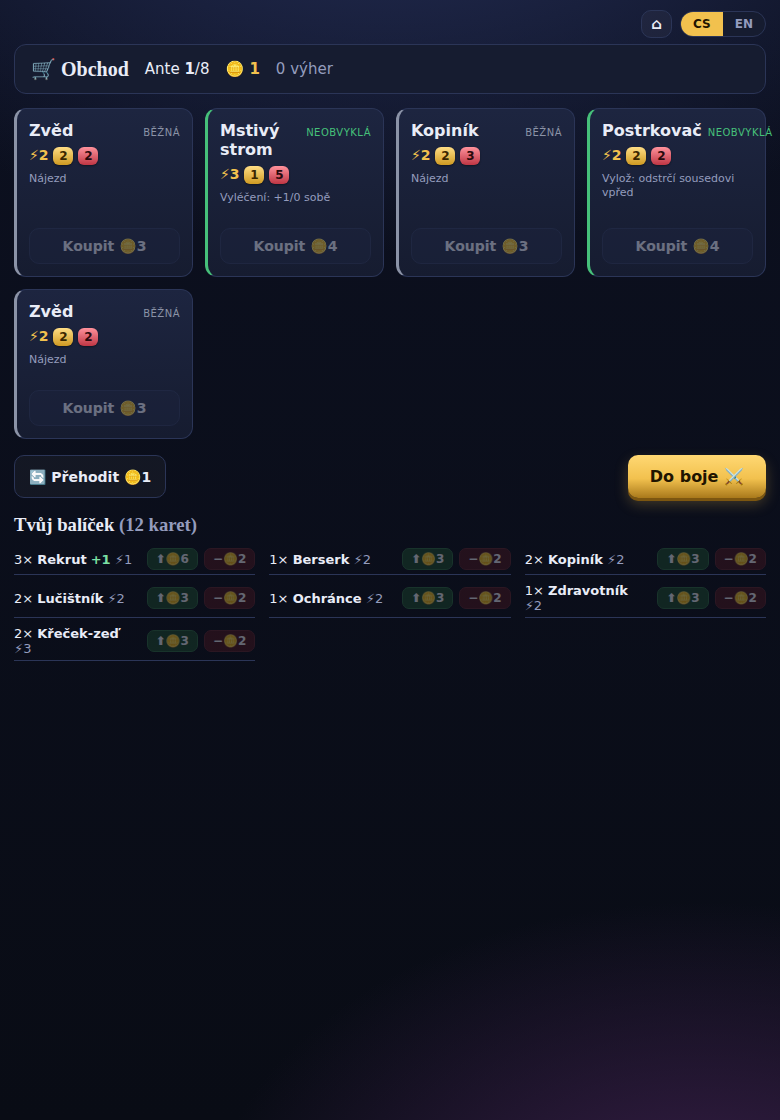
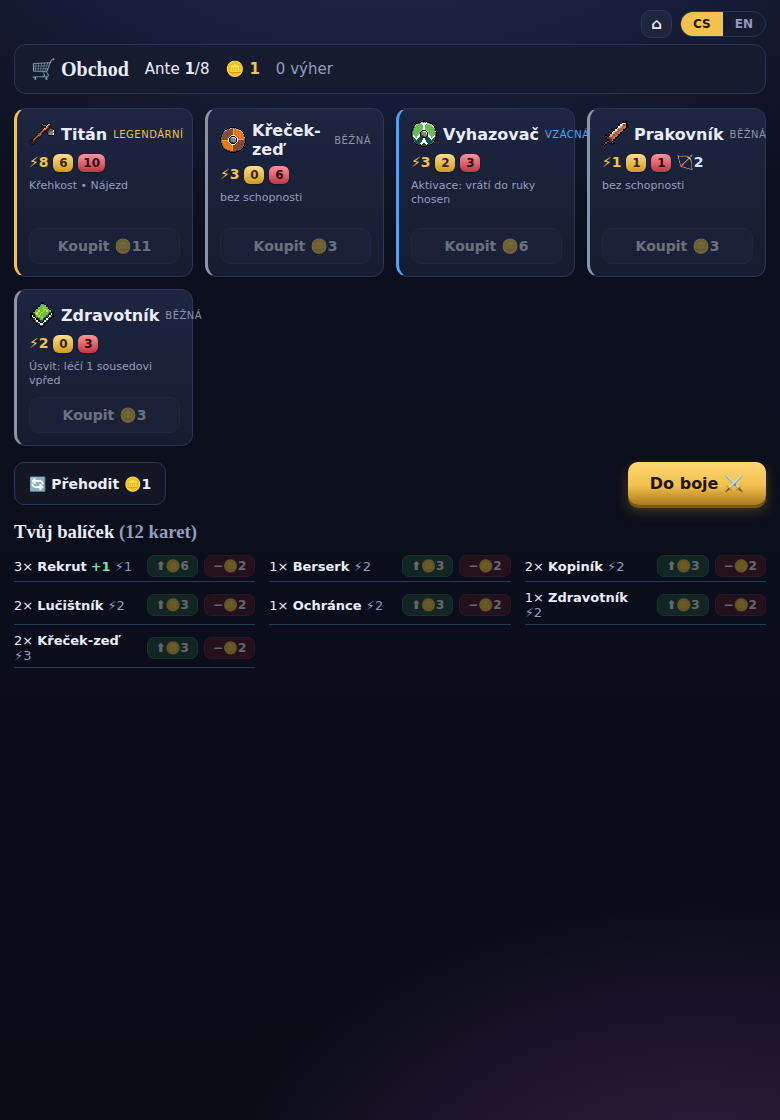
feat: sladit ruku a obchod do pixel rámečků + pixel-art ikony karet
- Emoji artwork nahrazeno pixel-art ikonami ze sheetu (meče, luky, sekery,
  lektvary, hůlky, štíty…) nařezanými za běhu; mapování karta→ikona v sprites.ts
- Karty v ruce mají teď stejný obloukový pixel rámeček jako na desce
  (art v okně, cena rohový odznak, HP/max v panelu, jméno jako popisek pod kartou)
- Obchod: ikona karty u názvu
- Královna má korunu, Velitel medaili
- Ověřeno v prohlížeči (uicheck aktualizován na .hslot), build ~149 kB

Claude-Session: https://claude.ai/code/session_01BAbEvVGZgQG9PMoEsfgnJW

diff --git a/src/ui/sprites.ts b/src/ui/sprites.ts
@@ -1,47 +1,92 @@
 import framesUrl from '../../assets/Modular_Fantasy_Cards_Spritesheet.png';
+import iconsUrl from '../../assets/pixelCardAssest_V01.png';
 import type { PlayerId } from '../engine/index.ts';
 
-// Nařezání spritesheetu na jednotlivé PNG (data URI) za běhu přes canvas.
-// Díky tomu jde sprite roztáhnout responzivně (background-size:100% 100%)
-// a zůstane ostrý (image-rendering: pixelated).
+// Nařezání spritesheetů na jednotlivé PNG (data URI) za běhu přes canvas.
+// Sprite jde pak roztáhnout responzivně a zůstane ostrý (image-rendering: pixelated).
 
 const FW = 68;
 const FH = 95;
 
-// souřadnice obloukových rámečků ve sheetu (změřeno analyzátorem)
-const FRAME_SRC: Record<string, { x: number; y: number }> = {
-  blue: { x: 4, y: 4 },
-  red: { x: 156, y: 4 },
-  gold: { x: 308, y: 210 },
-  green: { x: 308, y: 4 },
+// obloukové rámečky karet (Modular sheet) — [x,y]
+const FRAME_SRC: Record<string, [number, number]> = {
+  blue: [4, 4],
+  red: [156, 4],
+  gold: [308, 210],
+};
+
+// ikony (pixelCardAssest) — [x,y,w,h]
+const ICON_SRC: Record<string, [number, number, number, number]> = {
+  swordSteel: [544, 272, 16, 16],
+  swordWood: [523, 271, 16, 16],
+  spear: [506, 266, 12, 25],
+  axe: [469, 308, 27, 21],
+  hammer: [438, 306, 22, 19],
+  bow: [604, 307, 28, 27],
+  wandRed: [509, 310, 17, 17],
+  wandGreen: [536, 314, 17, 17],
+  heart: [429, 148, 13, 12],
+  potionR: [463, 202, 15, 16],
+  potionG: [496, 202, 15, 16],
+  potionY: [529, 202, 15, 16],
+  star: [399, 218, 20, 20],
+  coin: [401, 184, 19, 18],
+  shieldPurple: [568, 142, 26, 26],
+  shieldBronze: [568, 172, 26, 26],
+  shieldGreen: [568, 205, 26, 26],
+  shieldBlue: [568, 237, 26, 26],
+  shieldRed: [568, 266, 26, 26],
+};
+
+// mapování karty → ikona
+const ART_MAP: Record<string, string> = {
+  queen: 'star', recruit: 'swordSteel', spearman: 'spear', archer: 'bow', medic: 'potionG',
+  wall: 'shieldBronze', minelayer: 'axe', reaper: 'axe', protector: 'shieldBlue', berserk: 'axe',
+  courier: 'coin', vengetree: 'potionG', runeshield: 'shieldPurple', avenger: 'swordSteel',
+  timebomb: 'wandRed', cannon: 'hammer', pyro: 'wandRed', commander: 'shieldBronze', banner: 'shieldGreen',
+  zealot: 'swordWood', healer: 'potionR', zapper: 'wandGreen', slinger: 'swordWood', squire: 'shieldBronze',
+  brute: 'hammer', scout: 'bow', shover: 'shieldBlue', sapper: 'axe', cleric: 'potionR', hexer: 'wandRed',
+  sniper: 'bow', bouncer: 'shieldGreen', silencer: 'wandGreen', summoner: 'wandGreen', warlord: 'swordSteel',
+  plague: 'potionY', archmage: 'shieldPurple', titan: 'hammer',
 };
 
 const frames: Record<string, string> = {};
+const icons: Record<string, string> = {};
 
-export function initSprites(): Promise<void> {
+function load(src: string): Promise<HTMLImageElement | null> {
   return new Promise((resolve) => {
     const img = new Image();
-    img.onload = () => {
-      for (const [name, s] of Object.entries(FRAME_SRC)) {
-        const cv = document.createElement('canvas');
-        cv.width = FW;
-        cv.height = FH;
-        const ctx = cv.getContext('2d');
-        if (ctx) {
-          ctx.imageSmoothingEnabled = false;
-          ctx.drawImage(img, s.x, s.y, FW, FH, 0, 0, FW, FH);
-          frames[name] = cv.toDataURL();
-        }
-      }
-      resolve();
-    };
-    img.onerror = () => resolve();
-    img.src = framesUrl;
+    img.onload = () => resolve(img);
+    img.onerror = () => resolve(null);
+    img.src = src;
   });
 }
 
-/** Rámeček karty podle vlastníka (Královna dostane zlatý). */
+function slice(img: HTMLImageElement, x: number, y: number, w: number, h: number): string {
+  const cv = document.createElement('canvas');
+  cv.width = w;
+  cv.height = h;
+  const ctx = cv.getContext('2d');
+  if (!ctx) return '';
+  ctx.imageSmoothingEnabled = false;
+  ctx.drawImage(img, x, y, w, h, 0, 0, w, h);
+  return cv.toDataURL();
+}
+
+export async function initSprites(): Promise<void> {
+  const [framesImg, iconsImg] = await Promise.all([load(framesUrl), load(iconsUrl)]);
+  if (framesImg) for (const [name, [x, y]] of Object.entries(FRAME_SRC)) frames[name] = slice(framesImg, x, y, FW, FH);
+  if (iconsImg) for (const [name, [x, y, w, h]] of Object.entries(ICON_SRC)) icons[name] = slice(iconsImg, x, y, w, h);
+}
+
+/** Rámeček karty podle vlastníka (Královna zlatý). */
 export function frameFor(owner: PlayerId, isQueen: boolean): string {
   if (isQueen) return frames['gold'] ?? '';
   return owner === 'A' ? (frames['blue'] ?? '') : (frames['red'] ?? '');
+}
+
+/** Pixel-art ikona pro kartu (data URI), nebo '' když není. */
+export function iconFor(defId: string): string {
+  const key = ART_MAP[defId] ?? 'star';
+  return icons[key] ?? '';
 }

diff --git a/src/style.css b/src/style.css
@@ -161,26 +161,29 @@ button:disabled { opacity: .4; cursor: not-allowed; }
 .bdg.shield { color: #9fd0ff; } .bdg.count { color: #ffd27a; } .bdg.rng { color: #cfe3ff; }
 
 /* ── ruka ── */
-.hand { display: flex; flex-wrap: wrap; gap: 8px; margin-bottom: 12px; min-height: 88px; justify-content: center; }
-.hcard {
-  width: 86px; background: linear-gradient(180deg, var(--panel2), var(--panel));
-  border: 1px solid var(--line); border-bottom: 3px solid var(--rar, #888);
-  border-radius: 10px; padding: 8px 8px 6px; position: relative; cursor: pointer;
-  transition: transform .1s ease, box-shadow .15s ease;
-}
-.hcard:hover { transform: translateY(-5px); box-shadow: 0 8px 18px rgba(0,0,0,.4); }
-.hcard.is-sel { transform: translateY(-6px); box-shadow: 0 0 0 2px var(--gold), 0 8px 20px rgba(242,193,78,.35); }
-.hcard.is-dim { opacity: .42; }
-.hcard__cost {
-  position: absolute; top: -8px; left: -8px; width: 24px; height: 24px; border-radius: 50%;
+.hand { display: flex; flex-wrap: wrap; gap: 10px; margin-bottom: 12px; min-height: 120px; justify-content: center; align-items: flex-end; }
+.hslot { width: 76px; cursor: pointer; transition: transform .1s ease; }
+.hslot:hover { transform: translateY(-5px); }
+.hslot.is-sel { transform: translateY(-7px); }
+.hslot.is-sel .pc { filter: drop-shadow(0 0 3px #fff) drop-shadow(0 0 6px var(--gold)); }
+.hslot.is-dim { opacity: .45; }
+.hframe { width: 100% !important; height: auto !important; aspect-ratio: 68 / 95; }
+.hcost {
+  position: absolute; top: -7px; left: -7px; width: 23px; height: 23px; border-radius: 50%;
   background: radial-gradient(circle at 35% 30%, #fff2c0, var(--gold)); color: #201400;
   display: flex; align-items: center; justify-content: center; font-weight: 900; font-size: 13px;
-  box-shadow: 0 2px 6px rgba(0,0,0,.4);
+  box-shadow: 0 2px 6px rgba(0,0,0,.45); z-index: 3;
 }
-.hcard__name { font-weight: 700; font-size: 12px; margin: 2px 0 2px; }
-.hcard__art { font-size: 24px; text-align: center; margin: 2px 0 4px; filter: drop-shadow(0 1px 2px rgba(0,0,0,.5)); }
-.hcard__foot { display: flex; gap: 6px; font-size: 12px; font-weight: 800; }
+.hrng { position: absolute; top: -6px; right: -4px; font-size: 11px; background: rgba(0,0,0,.6); border-radius: 6px; padding: 0 3px; z-index: 3; }
+.hcaption { text-align: center; font-size: 11px; margin-top: 3px; font-weight: 600; color: var(--ink); white-space: nowrap; overflow: hidden; text-overflow: ellipsis; }
 .empty { color: var(--muted); padding: 24px; }
+
+/* pixel-art sprite ikony */
+.spr { display: inline-block; width: 30px; height: 30px; background-repeat: no-repeat; background-position: center; background-size: contain; image-rendering: pixelated; }
+.hframe .spr { width: 24px; height: 24px; }
+.shopicon { width: 26px; height: 26px; flex: 0 0 auto; }
+.artemoji { font-size: 26px; line-height: 1; filter: drop-shadow(0 1px 1px rgba(0,0,0,.5)); }
+.hframe .artemoji { font-size: 20px; }
 
 /* ── ovládání ── */
 .actionbar { display: flex; gap: 10px; align-items: center; flex-wrap: wrap; background: rgba(255,255,255,.04); border: 1px solid var(--line); border-radius: 10px; padding: 8px 12px; margin-bottom: 10px; }
@@ -211,8 +214,8 @@ button:disabled { opacity: .4; cursor: not-allowed; }
   border-radius: 12px; padding: 12px; display: flex; flex-direction: column; gap: 7px;
 }
 .shopcard.sold { opacity: .4; }
-.shopcard__head { display: flex; justify-content: space-between; align-items: baseline; gap: 6px; }
-.shopcard__name { font-weight: 700; }
+.shopcard__head { display: flex; align-items: center; gap: 6px; }
+.shopcard__name { font-weight: 700; flex: 1; }
 .shopcard__rar { font-size: 10px; text-transform: uppercase; letter-spacing: .5px; }
 .shopcard__stats { font-size: 14px; font-weight: 700; }
 .shopcard__stats .cost { color: var(--gold); }

diff --git a/src/main.ts b/src/main.ts
@@ -4,7 +4,7 @@ import { GameEngine, key } from './engine/index.ts';
 import { stepBot } from './ai/bot.ts';
 import { LIBRARY } from './content/cards.ts';
 import { describeCard, describeDef, describeAbility } from './ui/describe.ts';
-import { initSprites, frameFor } from './ui/sprites.ts';
+import { initSprites, frameFor, iconFor } from './ui/sprites.ts';
 import { t, cardName, formatLog, getLang, setLang, type Lang } from './i18n/index.ts';
 import {
   createRun, makeBattleConfig, startBattle, onBattleWin, onBattleLoss,
@@ -37,7 +37,13 @@ const CARD_ART: Record<string, string> = {
   sniper: '🎯', bouncer: '🚪', silencer: '🤫', summoner: '🌀', warlord: '🎗', plague: '🐦⬛',
   archmage: '🧙', titan: '🗿',
 };
-const cardArt = (defId: string) => CARD_ART[defId] ?? '❔';
+// pixel-art ikona ze sheetu; Královna má korunu, jinak fallback na emoji
+function cardArt(defId: string): string {
+  if (defId === 'queen') return '<span class="artemoji">👑</span>';
+  const uri = iconFor(defId);
+  if (uri) return `<span class="spr" style="background-image:url(${uri})"></span>`;
+  return `<span class="artemoji">${CARD_ART[defId] ?? '❔'}</span>`;
+}
 
 // vrstva pro efekty (plovoucí čísla, záblesky) — přežívá překreslení #app
 const fx = document.createElement('div');
@@ -211,14 +217,19 @@ function renderBoard(b: BattleState): string {
 }
 function renderHand(b: BattleState): string {
   const p = b.engine.state.players[HUMAN];
+  const frame = frameFor(HUMAN, false);
+  const bg = frame ? `style="background-image:url(${frame})"` : '';
   const chips = b.engine.handOf(HUMAN).map((c) => {
     const sel = b.selection?.type === 'hand' && b.selection.uid === c.uid ? 'is-sel' : '';
     const aff = c.cost <= p.energy ? '' : 'is-dim';
-    return `<div class="hcard r-${rarityOf(c.defId)} ${sel} ${aff}" data-hand="${c.uid}" title="${escapeAttr(describeCard(c) || cardName(c.defId))}">
-        <span class="hcard__cost">${c.cost}</span>
-        <div class="hcard__name">${escapeHtml(cardName(c.defId))}</div>
-        <div class="hcard__art">${cardArt(c.defId)}</div>
-        <div class="hcard__foot"><span class="atk">${c.attack}</span><span class="hp">${c.hp}/${c.maxHp}</span>${c.range > 1 ? `<span class="rng">🏹${c.range}</span>` : ''}</div>
+    const rng = c.range > 1 ? `<span class="hrng">🏹${c.range}</span>` : '';
+    return `<div class="hslot ${sel} ${aff}" data-hand="${c.uid}" title="${escapeAttr(describeCard(c) || cardName(c.defId))}">
+        <div class="pc pc--a hframe r-${rarityOf(c.defId)}" ${bg}>
+          <span class="hcost">${c.cost}</span>${rng}
+          <div class="pc__art">${cardArt(c.defId)}</div>
+          <div class="pc__foot"><span class="atk">${c.attack}</span><span class="hp">${c.hp}/${c.maxHp}</span></div>
+        </div>
+        <div class="hcaption">${escapeHtml(cardName(c.defId))}</div>
       </div>`;
   }).join('');
   return `<div class="hand">${chips || `<div class="empty">—</div>`}</div>`;
@@ -301,6 +312,7 @@ function renderShop(): string {
     const abil = describeDef(def);
     return `<div class="shopcard r-${def.rarity} ${item.sold ? 'sold' : ''}">
         <div class="shopcard__head">
+          <span class="spr shopicon" style="background-image:url(${iconFor(def.id)})"></span>
           <span class="shopcard__name">${escapeHtml(cardName(def.id))}</span>
           <span class="shopcard__rar r-txt-${def.rarity}">${t('rar.' + def.rarity)}</span>
         </div>
